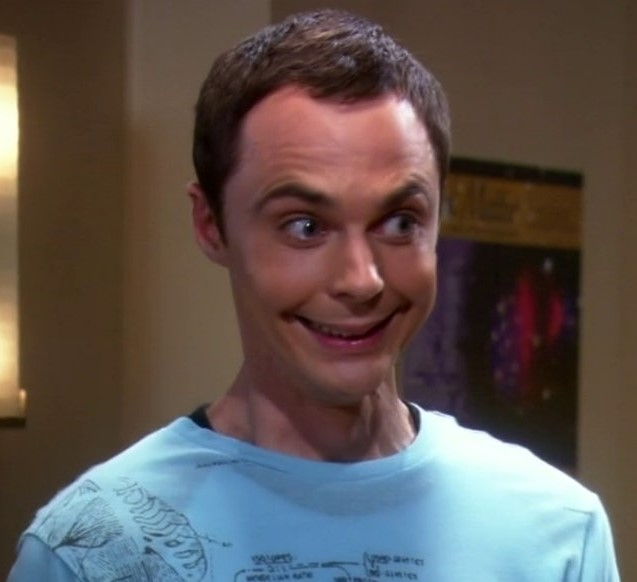
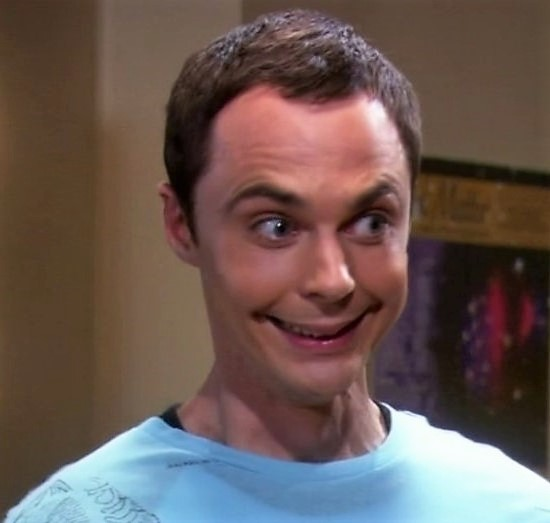
sheldon

diff --git a/Basic2D/Model.cpp b/Basic2D/Model.cpp
@@ -132,7 +132,7 @@ bool MyModel::LoadGLTextures(void)
 	if (!this->Load_a_texture("../Data/frame.png", 17)) return false;
 	if (!this->Load_a_texture("../Data/qrtexture.jpg", 18)) return false;
 	//sheldon-hogwarts
-	if (!this->Load_a_texture("../Data/bazinga.jpg", 19)) return false;
+	if (!this->Load_a_texture("../Data/sheldon2.jpg", 19)) return false;
 
 
 
